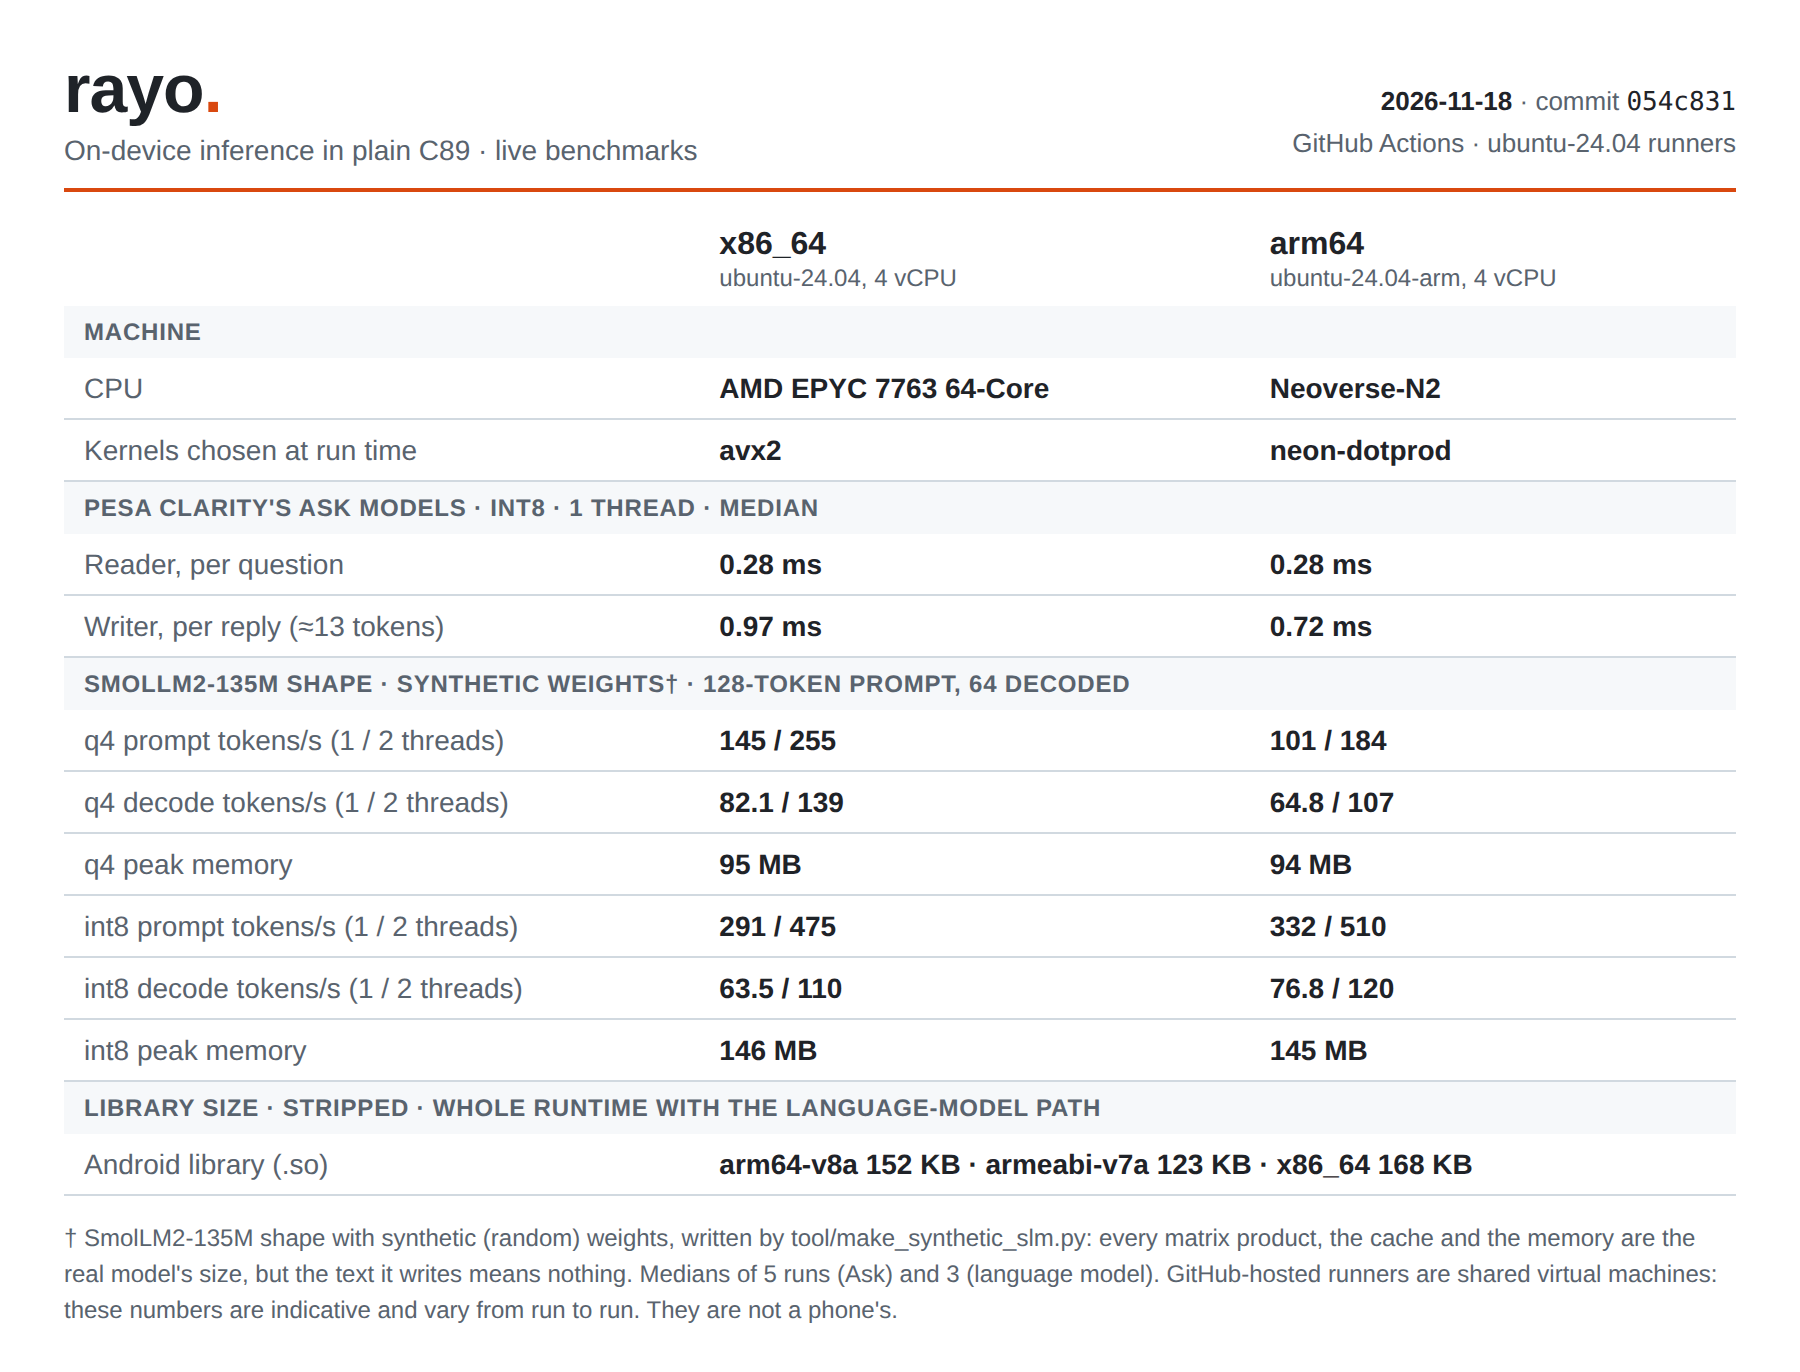
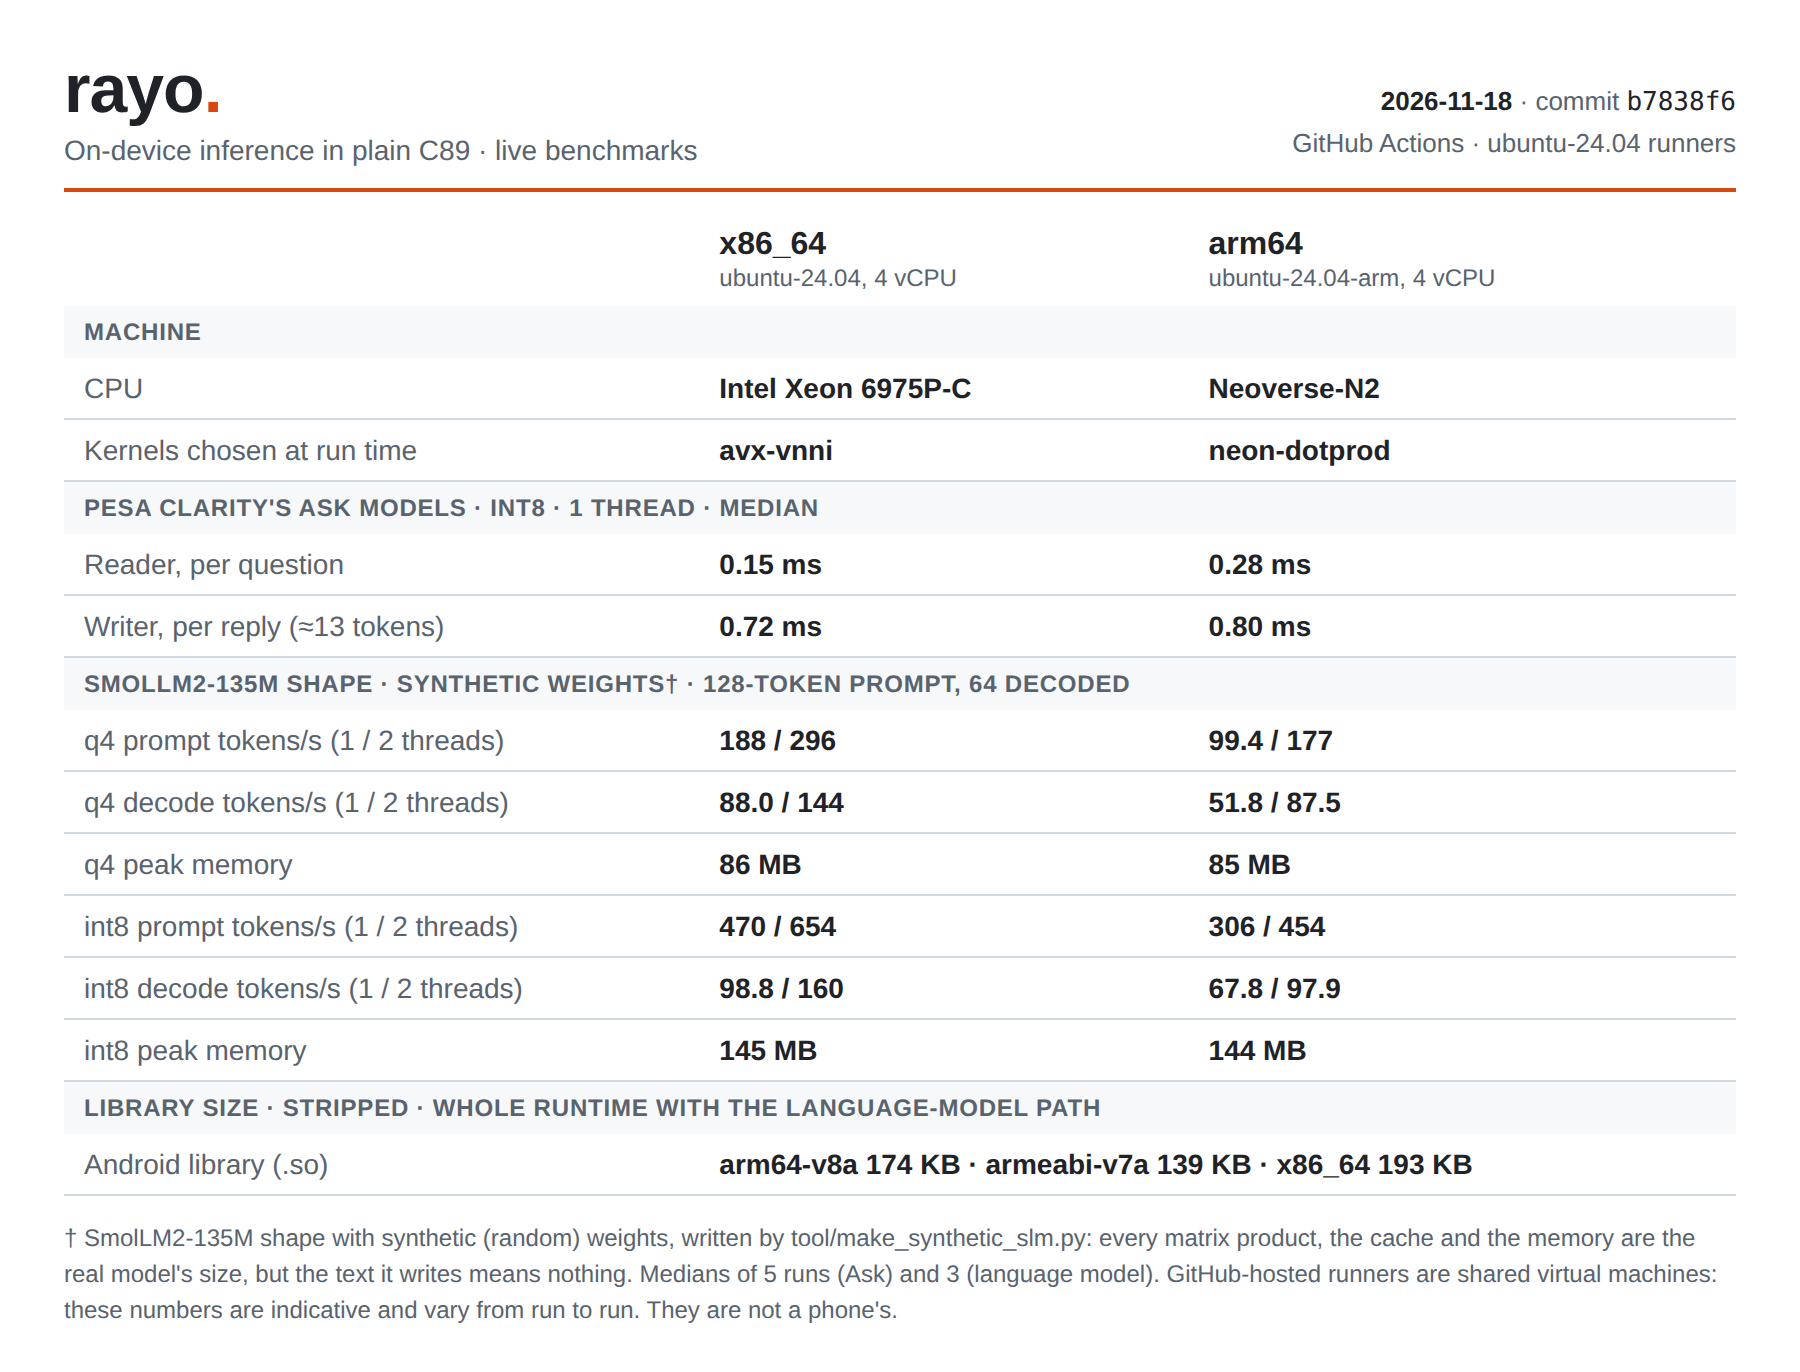
bench: b7838f6
Results of pesaclarity/rayo@b7838f6648e8f100674d0e70412c092bb2c6bb6d (https://github.com/pesaclarity/rayo/actions/runs/44274420673).

diff --git a/table.html b/table.html
@@ -39,25 +39,25 @@ footer { margin-top: 12px; font-size: 12px; color: var(--muted); line-height: 1.
 <header>
   <div class="brand">rayo<span>.</span><small>On-device inference in plain C89 · live
   benchmarks</small></div>
-  <div class="meta"><b>2026-11-18</b> · commit <code>054c831</code><br>
+  <div class="meta"><b>2026-11-18</b> · commit <code>b7838f6</code><br>
   GitHub Actions · ubuntu-24.04 runners</div>
 </header>
 <table><thead><tr><th></th><th>x86_64<small>ubuntu-24.04, 4 vCPU</small></th><th>arm64<small>ubuntu-24.04-arm, 4 vCPU</small></th></tr></thead><tbody>
 <tr class="section"><td colspan="3">Machine</td></tr>
-<tr><td class="label">CPU</td><td class="num">AMD EPYC 7763 64-Core</td><td class="num">Neoverse-N2</td></tr>
-<tr><td class="label">Kernels chosen at run time</td><td class="num">avx2</td><td class="num">neon-dotprod</td></tr>
+<tr><td class="label">CPU</td><td class="num">Intel Xeon 6975P-C</td><td class="num">Neoverse-N2</td></tr>
+<tr><td class="label">Kernels chosen at run time</td><td class="num">avx-vnni</td><td class="num">neon-dotprod</td></tr>
 <tr class="section"><td colspan="3">Pesa Clarity&#x27;s Ask models · int8 · 1 thread · median</td></tr>
-<tr><td class="label">Reader, per question</td><td class="num">0.28 ms</td><td class="num">0.28 ms</td></tr>
-<tr><td class="label">Writer, per reply (≈13 tokens)</td><td class="num">0.97 ms</td><td class="num">0.72 ms</td></tr>
+<tr><td class="label">Reader, per question</td><td class="num">0.15 ms</td><td class="num">0.28 ms</td></tr>
+<tr><td class="label">Writer, per reply (≈13 tokens)</td><td class="num">0.72 ms</td><td class="num">0.80 ms</td></tr>
 <tr class="section"><td colspan="3">SmolLM2-135M shape · synthetic weights† · 128-token prompt, 64 decoded</td></tr>
-<tr><td class="label">q4 prompt tokens/s (1 / 2 threads)</td><td class="num">145 / 255</td><td class="num">101 / 184</td></tr>
-<tr><td class="label">q4 decode tokens/s (1 / 2 threads)</td><td class="num">82.1 / 139</td><td class="num">64.8 / 107</td></tr>
-<tr><td class="label">q4 peak memory</td><td class="num">95 MB</td><td class="num">94 MB</td></tr>
-<tr><td class="label">int8 prompt tokens/s (1 / 2 threads)</td><td class="num">291 / 475</td><td class="num">332 / 510</td></tr>
-<tr><td class="label">int8 decode tokens/s (1 / 2 threads)</td><td class="num">63.5 / 110</td><td class="num">76.8 / 120</td></tr>
-<tr><td class="label">int8 peak memory</td><td class="num">146 MB</td><td class="num">145 MB</td></tr>
+<tr><td class="label">q4 prompt tokens/s (1 / 2 threads)</td><td class="num">188 / 296</td><td class="num">99.4 / 177</td></tr>
+<tr><td class="label">q4 decode tokens/s (1 / 2 threads)</td><td class="num">88.0 / 144</td><td class="num">51.8 / 87.5</td></tr>
+<tr><td class="label">q4 peak memory</td><td class="num">86 MB</td><td class="num">85 MB</td></tr>
+<tr><td class="label">int8 prompt tokens/s (1 / 2 threads)</td><td class="num">470 / 654</td><td class="num">306 / 454</td></tr>
+<tr><td class="label">int8 decode tokens/s (1 / 2 threads)</td><td class="num">98.8 / 160</td><td class="num">67.8 / 97.9</td></tr>
+<tr><td class="label">int8 peak memory</td><td class="num">145 MB</td><td class="num">144 MB</td></tr>
 <tr class="section"><td colspan="3">Library size · stripped · whole runtime with the language-model path</td></tr>
-<tr><td class="label">Android library (.so)</td><td class="num" colspan="2">arm64-v8a 152 KB · armeabi-v7a 123 KB · x86_64 168 KB</td></tr>
+<tr><td class="label">Android library (.so)</td><td class="num" colspan="2">arm64-v8a 174 KB · armeabi-v7a 139 KB · x86_64 193 KB</td></tr>
 </tbody></table>
 <footer>† SmolLM2-135M shape with synthetic (random) weights, written by tool/make_synthetic_slm.py: every matrix product, the cache and the memory are the real model&#x27;s size, but the text it writes means nothing. Medians of 5 runs (Ask) and 3 (language model). GitHub-hosted runners are shared virtual machines: these numbers are indicative and vary from run to run. They are not a phone&#x27;s.</footer>
 </div></body></html>

diff --git a/README.md b/README.md
@@ -7,34 +7,36 @@ Written by CI after every push to `main` ([`.github/workflows/ci.yml`](https://g
   <img alt="rayo benchmarks" src="table-light.png">
 </picture>
 
-## Latest: 2026-11-18, [`054c831`](https://github.com/pesaclarity/rayo/commit/054c8311619f60b38fed07c8042cf9564e36126f)
+## Latest: 2026-11-18, [`b7838f6`](https://github.com/pesaclarity/rayo/commit/b7838f6648e8f100674d0e70412c092bb2c6bb6d)
 
 | | **x86_64**<br>ubuntu-24.04, 4 vCPU | **arm64**<br>ubuntu-24.04-arm, 4 vCPU |
 | --- | --- | --- |
 | **Machine** | | |
-| CPU | AMD EPYC 7763 64-Core | Neoverse-N2 |
-| Kernels chosen at run time | avx2 | neon-dotprod |
+| CPU | Intel Xeon 6975P-C | Neoverse-N2 |
+| Kernels chosen at run time | avx-vnni | neon-dotprod |
 | **Pesa Clarity's Ask models · int8 · 1 thread · median** | | |
-| Reader, per question | 0.28 ms | 0.28 ms |
-| Writer, per reply (≈13 tokens) | 0.97 ms | 0.72 ms |
+| Reader, per question | 0.15 ms | 0.28 ms |
+| Writer, per reply (≈13 tokens) | 0.72 ms | 0.80 ms |
 | **SmolLM2-135M shape · synthetic weights† · 128-token prompt, 64 decoded** | | |
-| q4 prompt tokens/s (1 / 2 threads) | 145 / 255 | 101 / 184 |
-| q4 decode tokens/s (1 / 2 threads) | 82.1 / 139 | 64.8 / 107 |
-| q4 peak memory | 95 MB | 94 MB |
-| int8 prompt tokens/s (1 / 2 threads) | 291 / 475 | 332 / 510 |
-| int8 decode tokens/s (1 / 2 threads) | 63.5 / 110 | 76.8 / 120 |
-| int8 peak memory | 146 MB | 145 MB |
+| q4 prompt tokens/s (1 / 2 threads) | 188 / 296 | 99.4 / 177 |
+| q4 decode tokens/s (1 / 2 threads) | 88.0 / 144 | 51.8 / 87.5 |
+| q4 peak memory | 86 MB | 85 MB |
+| int8 prompt tokens/s (1 / 2 threads) | 470 / 654 | 306 / 454 |
+| int8 decode tokens/s (1 / 2 threads) | 98.8 / 160 | 67.8 / 97.9 |
+| int8 peak memory | 145 MB | 144 MB |
 | **Library size · stripped · whole runtime with the language-model path** | | |
-| Android library (.so) | arm64-v8a 152 KB · armeabi-v7a 123 KB · x86_64 168 KB |  |
+| Android library (.so) | arm64-v8a 174 KB · armeabi-v7a 139 KB · x86_64 193 KB |  |
 
 † SmolLM2-135M shape with synthetic (random) weights, written by tool/make_synthetic_slm.py: every matrix product, the cache and the memory are the real model's size, but the text it writes means nothing.
 
-The run: https://github.com/pesaclarity/rayo/actions/runs/44271209897
+The run: https://github.com/pesaclarity/rayo/actions/runs/44274420673
 
 ## History (the last 10 runs; all in [history.csv](history.csv))
 
 | date | commit | runner | reader ms | writer ms | q4 decode tok/s 1 / 2 threads | int8 decode tok/s 1 / 2 threads |
 | --- | --- | --- | --- | --- | --- | --- |
+| 2026-11-18 | [`b7838f6`](https://github.com/pesaclarity/rayo/commit/b7838f6648e8f100674d0e70412c092bb2c6bb6d) | ubuntu-24.04-arm | 0.3 | 0.8 | 51.8 / 87.5 | 67.8 / 97.9 |
+| 2026-11-18 | [`b7838f6`](https://github.com/pesaclarity/rayo/commit/b7838f6648e8f100674d0e70412c092bb2c6bb6d) | ubuntu-24.04 | 0.1 | 0.7 | 88.0 / 144 | 98.8 / 160 |
 | 2026-11-18 | [`054c831`](https://github.com/pesaclarity/rayo/commit/054c8311619f60b38fed07c8042cf9564e36126f) | ubuntu-24.04-arm | 0.3 | 0.7 | 64.8 / 107 | 76.8 / 120 |
 | 2026-11-18 | [`054c831`](https://github.com/pesaclarity/rayo/commit/054c8311619f60b38fed07c8042cf9564e36126f) | ubuntu-24.04 | 0.3 | 1.0 | 82.1 / 139 | 63.5 / 110 |
 | 2026-11-18 | [`9d46ee3`](https://github.com/pesaclarity/rayo/commit/9d46ee3d660190c255d58513d2e358031f57a283) | ubuntu-24.04-arm | 0.3 | 0.7 | 62.7 / 103 | 72.7 / 115 |
